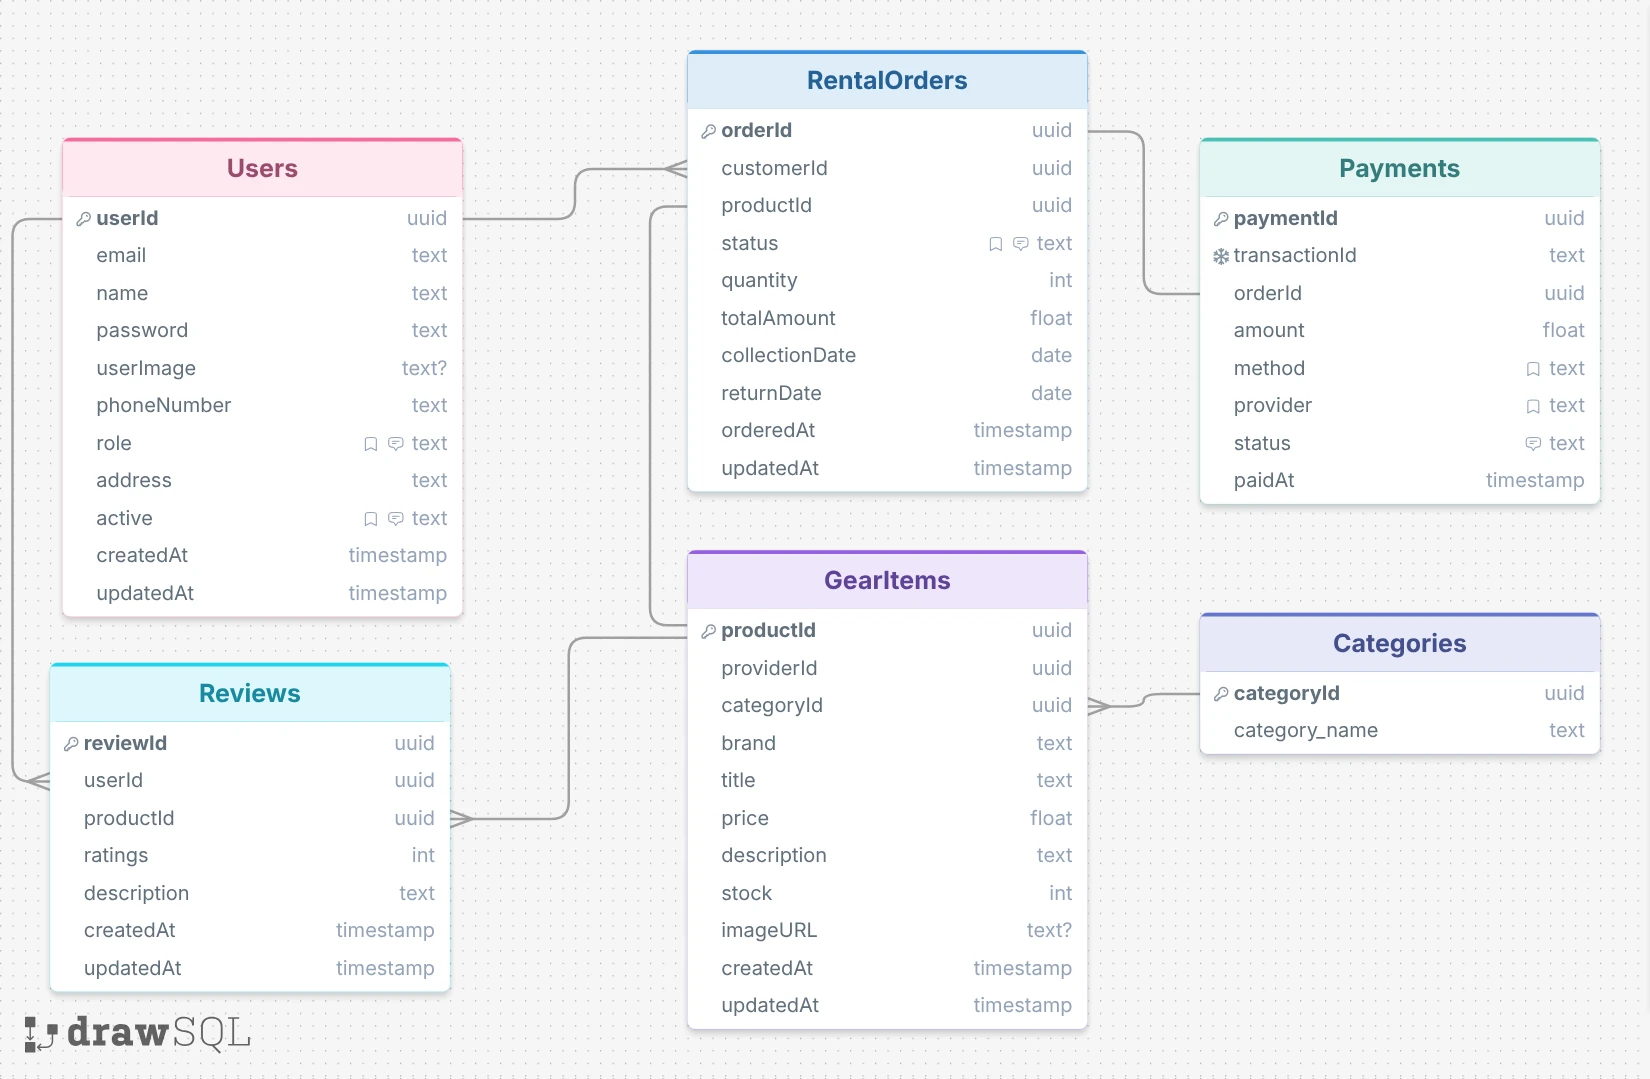
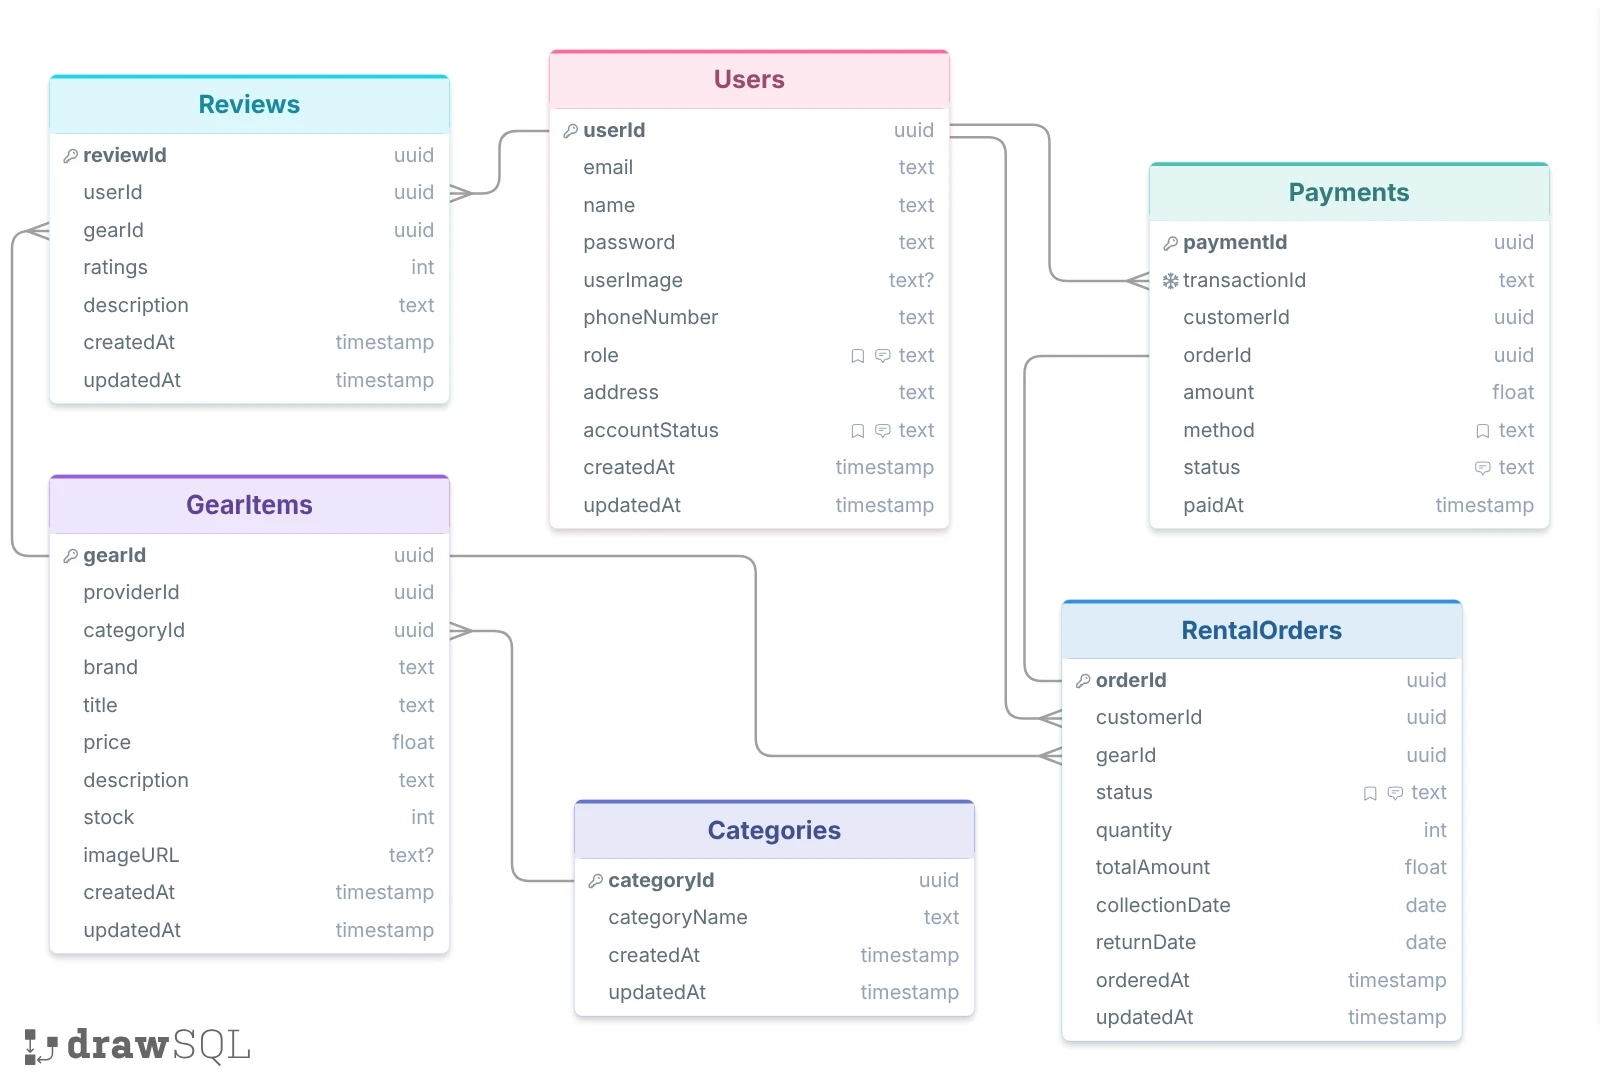
added checkout url

Changed region(s): [[0.0, 0.0306, 0.9688, 0.9787], [0.875, 0.7646, 0.9062, 0.7952], [0.3438, 0.5811, 0.375, 0.6117]]

diff --git a/src/modules/payment/payment.service.ts b/src/modules/payment/payment.service.ts
@@ -1,0 +1,62 @@
+import { OrderStatus } from "../../../generated/prisma/enums";
+import config from "../../config";
+import { prisma } from "../../lib/prisma"
+import { stripe } from "../../lib/stripe";
+
+const createCheckoutSession = async(userId : string, orderId : string) =>{
+
+    const order = await prisma.rentalOrders.findUniqueOrThrow({
+        where : {orderId},
+        include : {
+            user : true
+        }
+    })
+    
+     if(order.user.userId !== userId){
+        throw new Error("This order does not belong to you.")
+     }
+
+     if(order.status !== OrderStatus.CONFIRMED){
+        throw new Error(`You can't pay for this order now. This order has been ${order.status}`)
+     }
+
+
+     const session = await stripe.checkout.sessions.create({
+        line_items:[{
+          price_data :{
+            currency : "usd",
+            unit_amount : Math.round(order.totalAmount * 100),
+            product_data : {
+                name : `Payment for order #${orderId}`
+            }
+          },
+          quantity : Number(order.quantity)
+        }],
+        mode : "payment",
+        payment_method_types : ["card"],
+        success_url : `${config.app_url}/payment?success=true`,
+        cancel_url : `${config.app_url}/payment?success=false`,
+        metadata : {
+            userId,
+            orderId
+        }
+     })
+
+    return {
+        paymentURL : session.url
+    };
+}
+
+const handleWebhook = async() =>{
+
+}
+
+const getUsersPaymentFromDB = async() =>{
+
+}
+
+const getPayemntDetails = async() =>{
+
+}
+
+export const paymentServices = {createCheckoutSession, handleWebhook, getUsersPaymentFromDB, getPayemntDetails}

diff --git a/src/modules/payment/payment.controller.ts b/src/modules/payment/payment.controller.ts
@@ -1,0 +1,42 @@
+import { NextFunction, Request, Response } from "express";
+import { catchAsync } from "../../utils/catchAsync";
+import { paymentServices } from "./payment.service";
+import { sendResponse } from "../../utils/sendResponse";
+import httpStatus from "http-status"
+
+const createPaymentCheckoutSession = catchAsync(
+    async(req : Request, res : Response, next : NextFunction) =>{
+
+        const userId = req.user?.userId;
+        const {orderId} = req.body;
+        const result = await paymentServices.createCheckoutSession(userId as string, orderId)
+
+        sendResponse(res, {
+            success : true,
+            statusCode : httpStatus.OK,
+            message : "Checkout completed successfully",
+            data : result
+        })
+    }
+)
+
+const handleWebhooktoConfirmPayment = catchAsync(
+    async(req : Request, res : Response, next : NextFunction) =>{
+        
+    }
+)
+
+const getUsersPayemnt = catchAsync(
+    async(req : Request, res : Response, next : NextFunction) =>{
+        
+    }
+)
+
+const getPaymentDetail = catchAsync(
+    async(req : Request, res : Response, next : NextFunction) =>{
+        
+    }
+)
+
+
+export const paymentController = {createPaymentCheckoutSession, handleWebhooktoConfirmPayment, getUsersPayemnt, getPaymentDetail}

diff --git a/src/modules/payment/payment.route.ts b/src/modules/payment/payment.route.ts
@@ -1,0 +1,12 @@
+import { Router } from "express";
+import { paymentController } from "./payment.controller";
+import { auth } from "../../middleware/auth";
+import { Role } from "../../../generated/prisma/enums";
+
+const router = Router()
+router.post('/create',auth(Role.CUSTOMER), paymentController.createPaymentCheckoutSession)
+// router.post('/confirm', )
+// router.get('/')
+// router.get('/:paymentId')
+
+export const paymentRoutes = router;

diff --git a/src/config/index.ts b/src/config/index.ts
@@ -11,8 +11,7 @@ export default {
     jwt_access_screte : process.env.JWT_ACCESS_SECRETE!,
     jwt_refresh_screte : process.env.JWT_REFRESH_SECRETE!,
     jwt_access_expires_in : process.env.JWT_ACCESS_EXPIRES_IN!,
-    jwt_refresh_expires_in : process.env.JWT_REFRESH_EXPIRES_IN!
-    // stripe_price_id : process.env.STRIPE_PRICE_ID!,
-    // stripe_secrete_key : process.env.STRIPE_SECRETE_KEY!,
+    jwt_refresh_expires_in : process.env.JWT_REFRESH_EXPIRES_IN!,
+    stripe_secrete_key : process.env.STRIPE_SECRETE_KEY!,
     // webhook_secrete : process.env.WEBHOOK_SECRETE!
 }

diff --git a/src/lib/stripe.ts b/src/lib/stripe.ts
@@ -1,0 +1,4 @@
+import Stripe from "stripe";
+import config from "../config";
+
+export const stripe = new Stripe(config.stripe_secrete_key)

diff --git a/src/app.ts b/src/app.ts
@@ -11,6 +11,7 @@ import { gearRoutes } from "./modules/gear/gear.route";
 import { rentalOrderRoutes } from "./modules/rentalOrders/rentalOrder.route";
 import { reviewRoutes } from "./modules/review/review.route";
 import { userRoutes } from "./modules/user/user.route";
+import { paymentRoutes } from "./modules/payment/payment.route";
 
 
 const app : Application = express()
@@ -35,6 +36,7 @@ app.use("/api", gearRoutes)
 app.use("/api/rentals", rentalOrderRoutes)
 app.use("/api/reviews", reviewRoutes)
 app.use("/api/user", userRoutes)
+app.use("/api/payments", paymentRoutes)
 
 
 app.use(notFound)